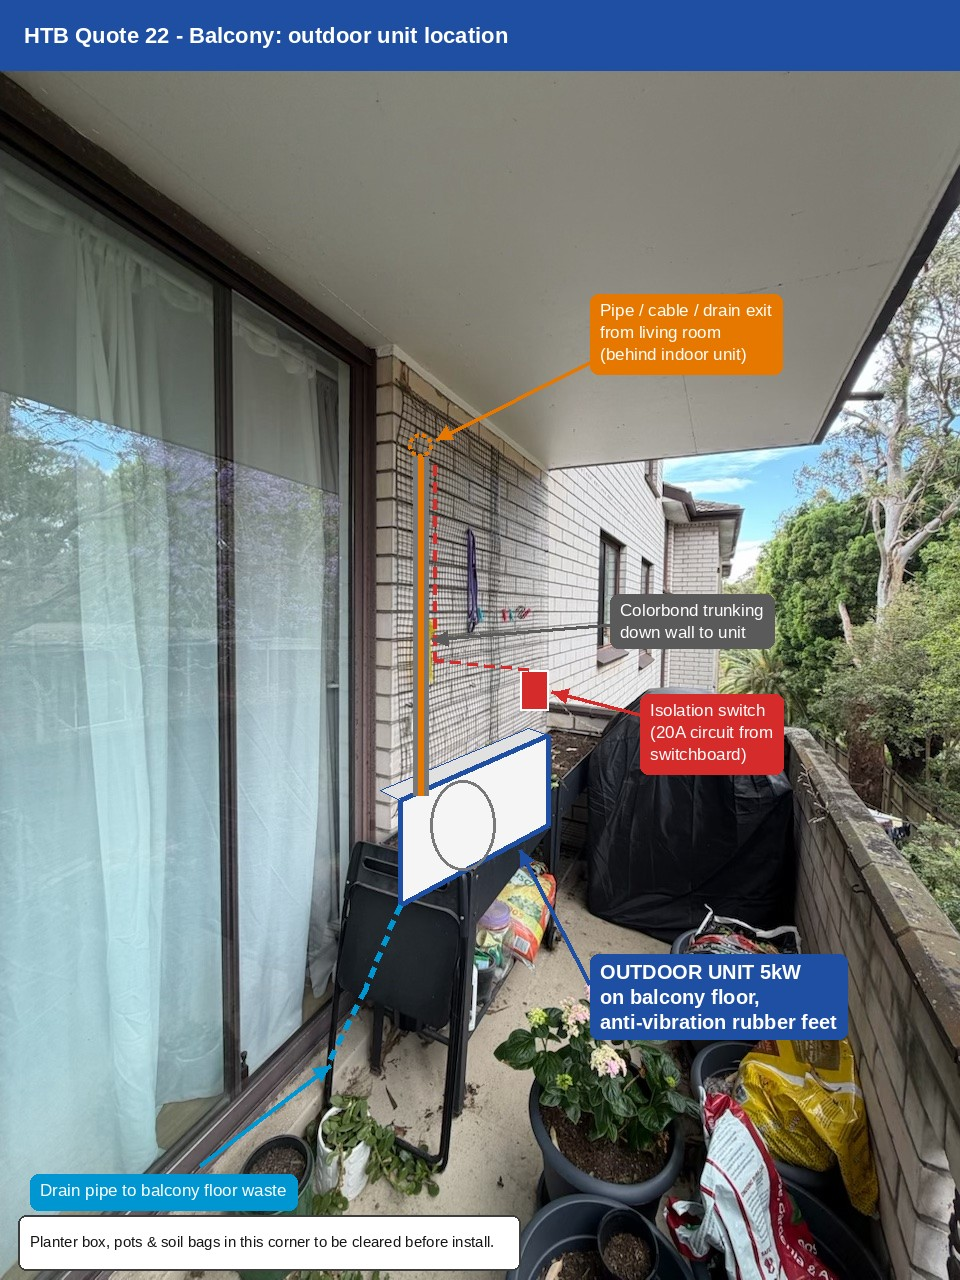
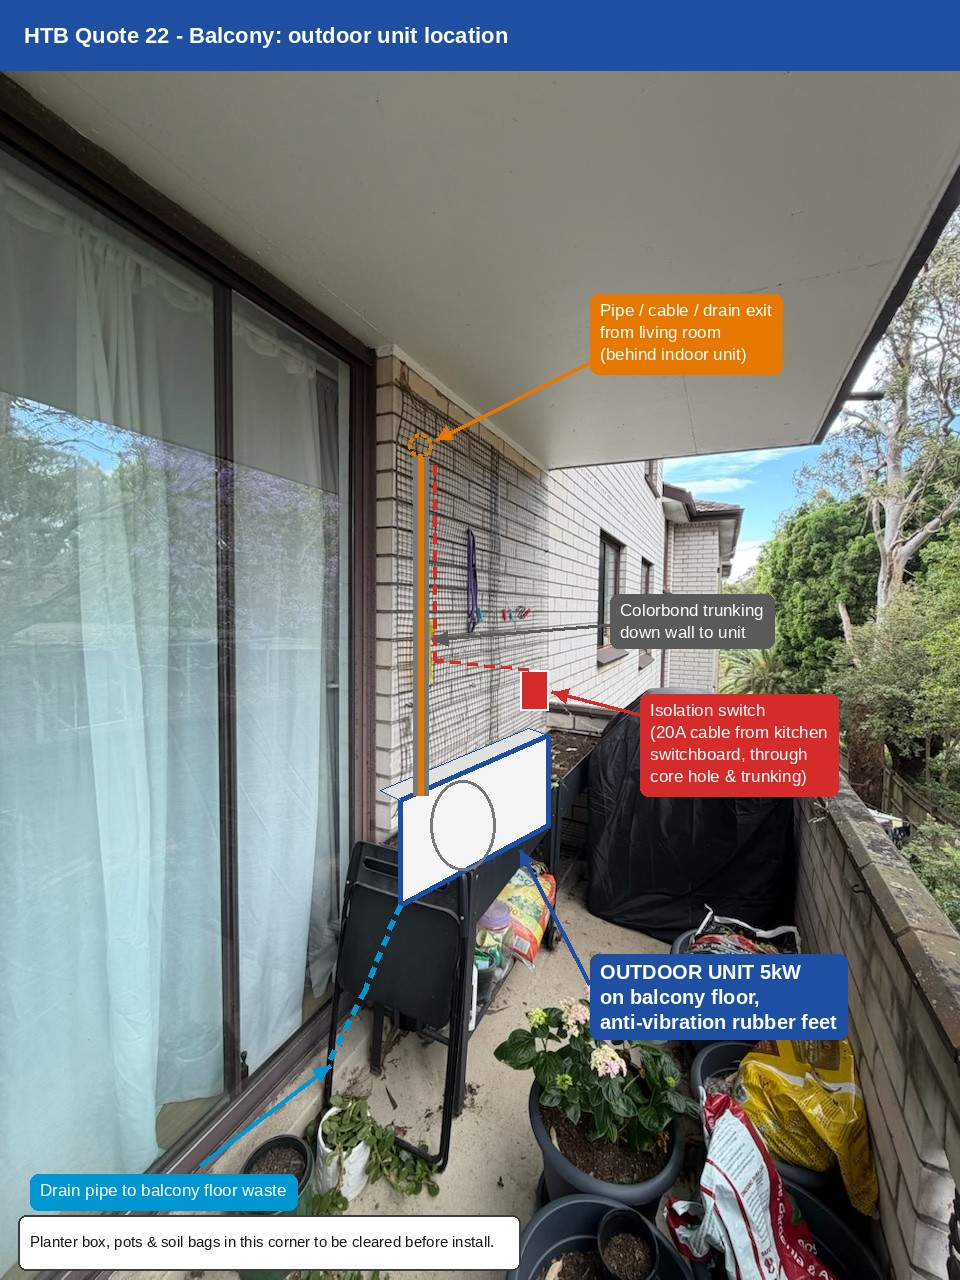
Quote 22: add floor plan and power cable route from kitchen switchboard
Claude-Session: https://claude.ai/code/session_01Utm1YMVjKdSb9sPKMocouw

Changed region(s): [[0.6562, 0.5312, 0.875, 0.625]]

diff --git a/quotes/HTB-Quote-22.html b/quotes/HTB-Quote-22.html
@@ -62,7 +62,7 @@ table.items tr.last td { border-bottom: 1px solid #ccc; }
 - Supply all installation materials (copper pipes, cables, drain pipes, Colorbond trunking, anti-vibration rubber feet, brackets and electrical materials) and labour for air conditioning installation and electrical installation.<br>
 + 1 x 5kW wall mounted indoor unit will be installed on the wall above the TV in the living room. A hole will be core drilled through the brick wall directly behind the indoor unit for the copper pipes, cables and drain pipe to go through to the balcony.<br>
 + 1 x 5kW outdoor unit will be located on the floor of the balcony, right behind the TV wall, with anti-vibration rubber feet. The copper pipes, cables and drain pipe will be covered by Colorbond trunking along the outside wall down to the outdoor unit. The drain pipe will run to the floor waste of the balcony.<br>
-+ 1 x 20A circuit will be installed at the switchboard, with cable run to the isolation switch next to the outdoor unit on the balcony.
++ 1 x 20A circuit will be installed at the switchboard in the kitchen, with cable run through the wall into the living room, along the top of the wall in white trunking to the indoor unit, then through the core hole and down the Colorbond trunking to the isolation switch next to the outdoor unit on the balcony.
 </td><td class="qty">1</td><td class="price">$3,330.00</td></tr>
 </table>
 
